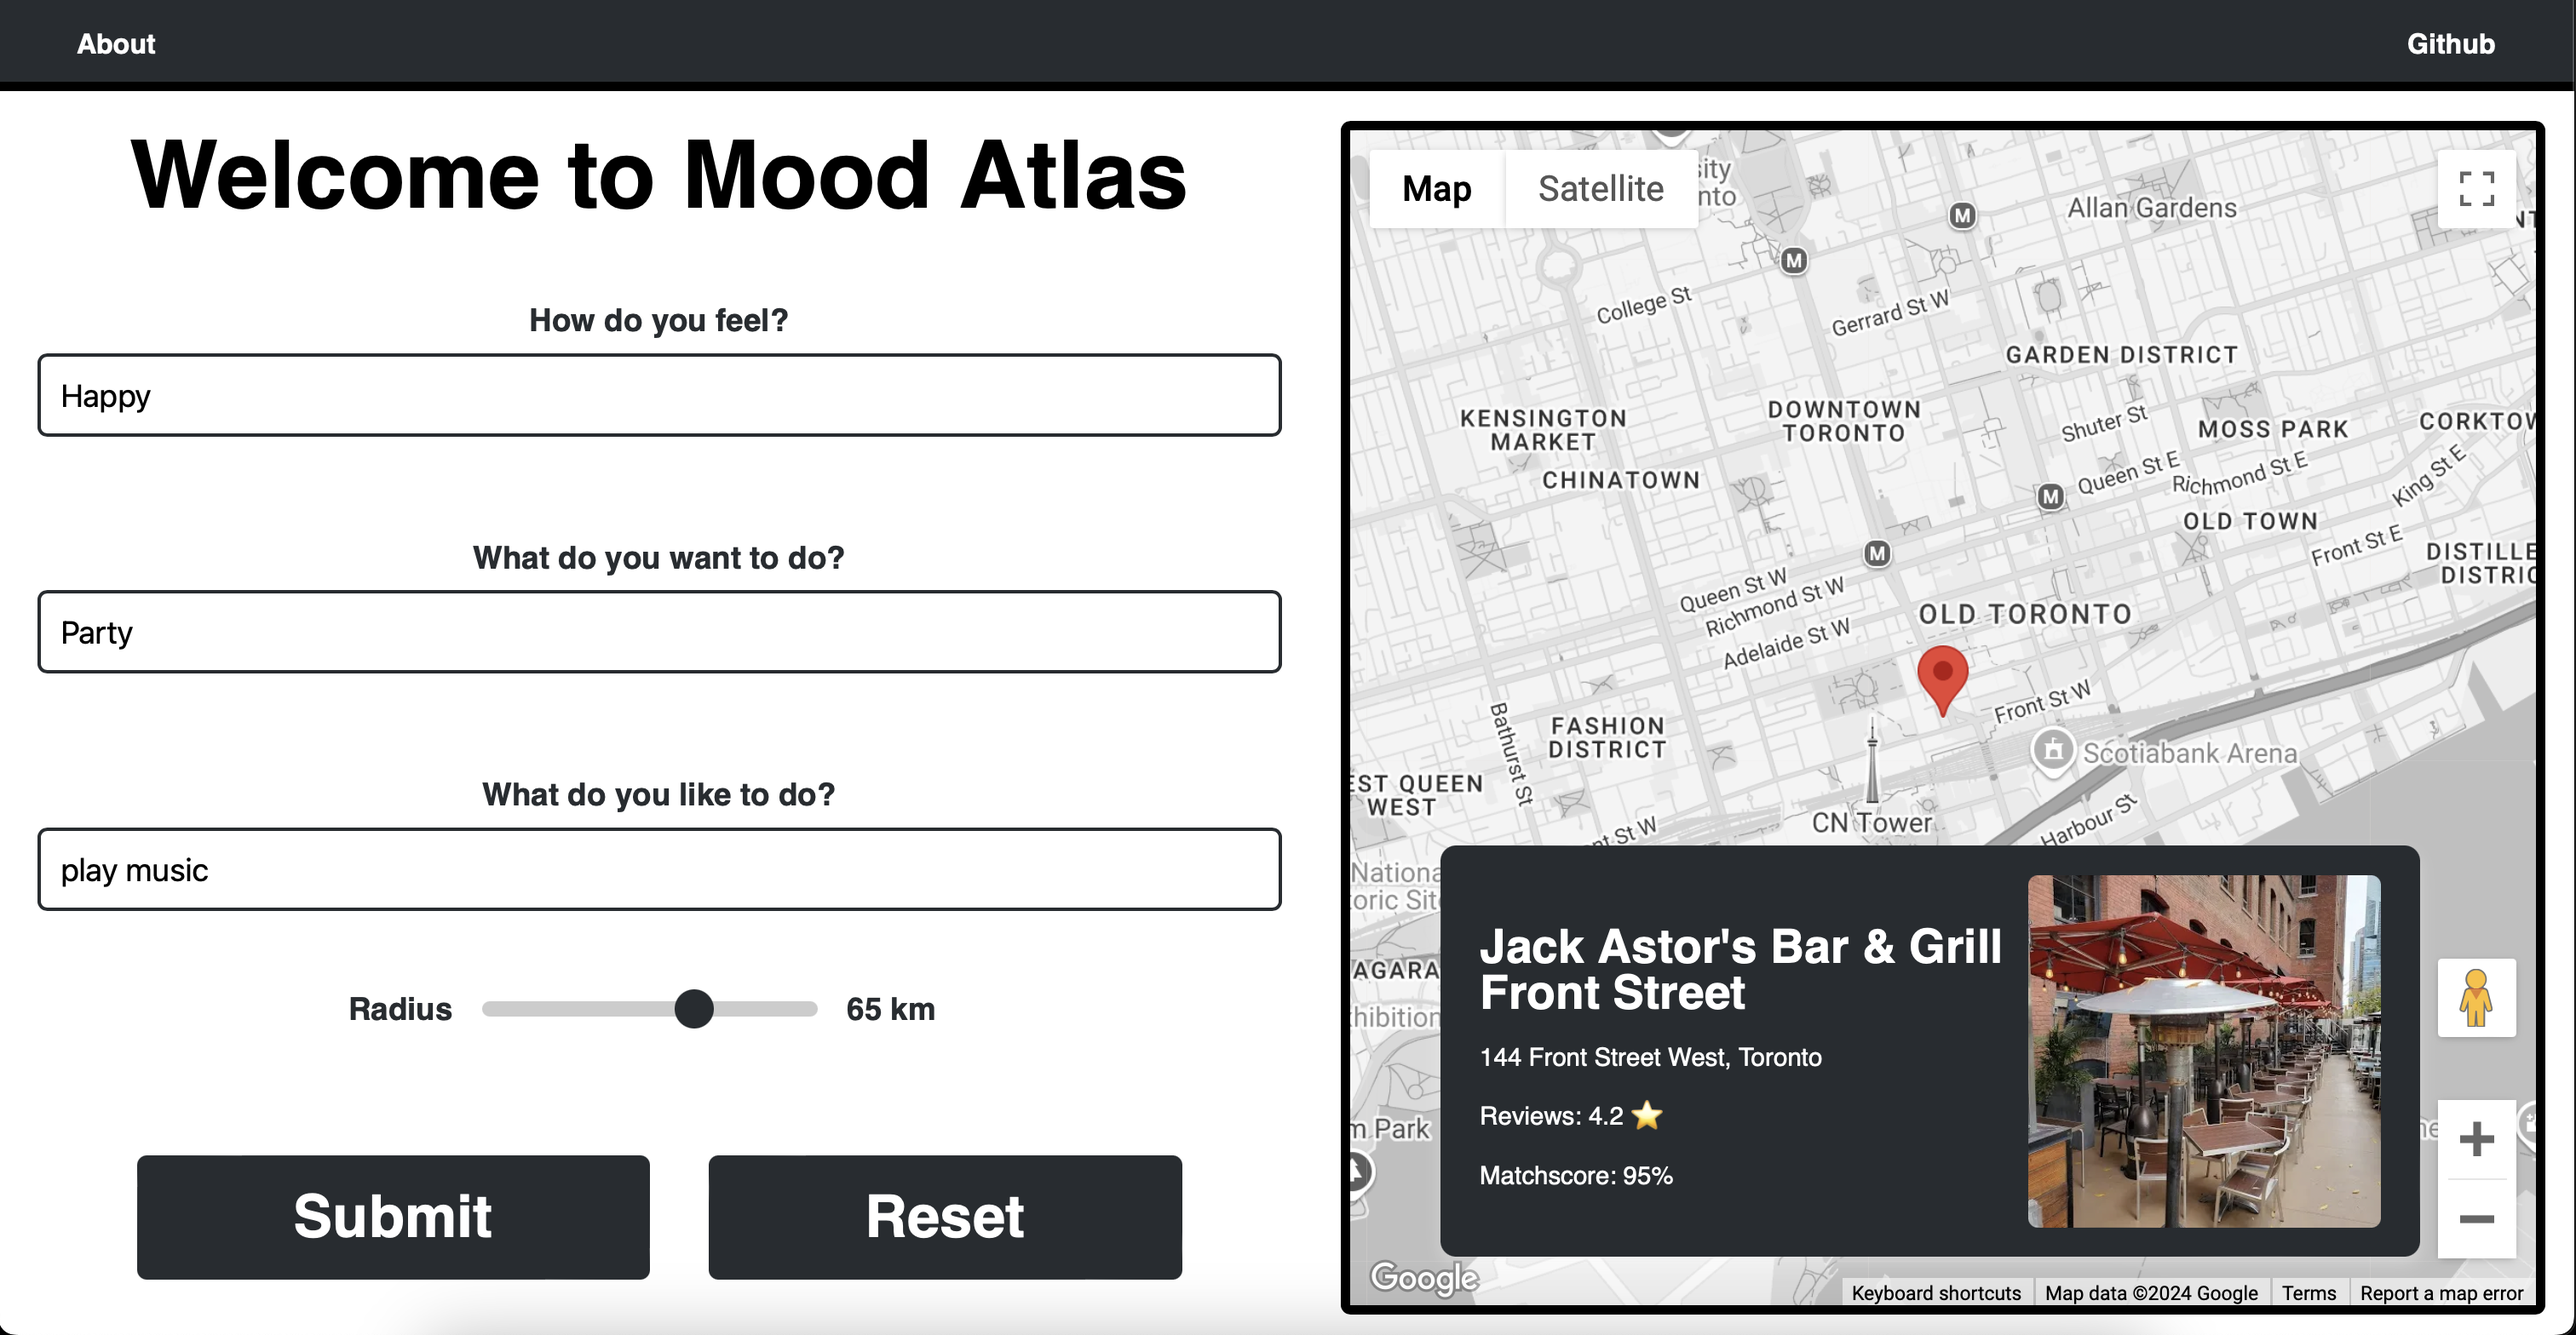
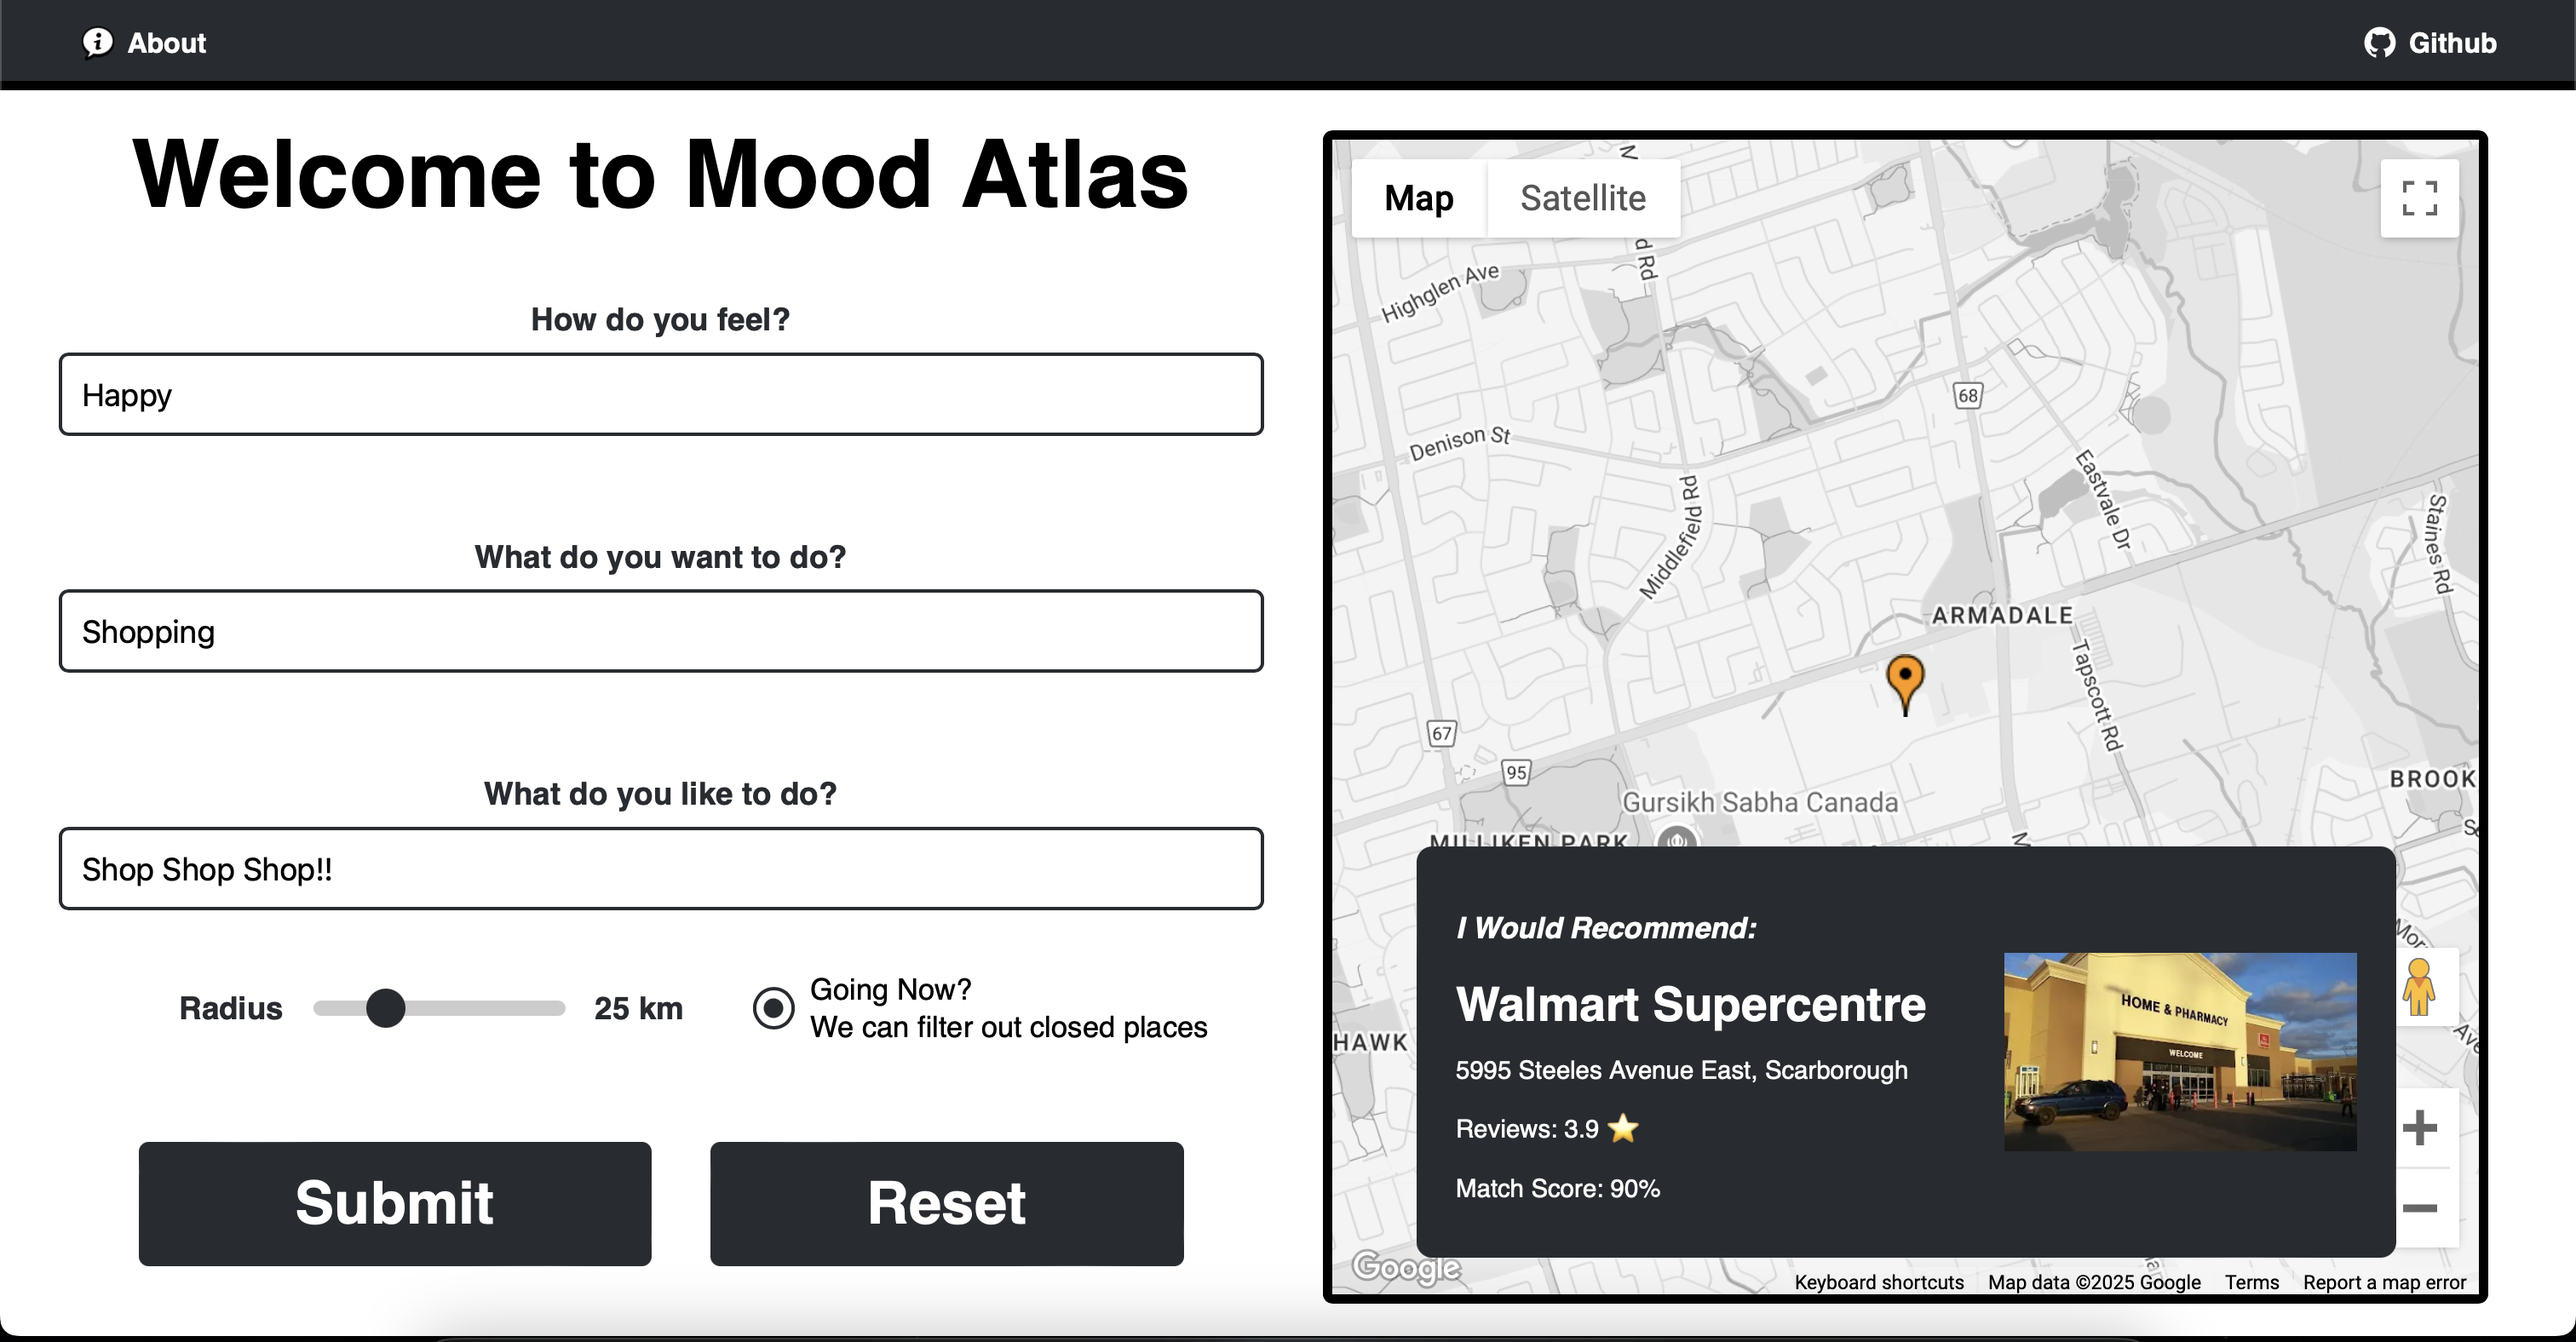
Changes from prod

diff --git a/app/places_fetch.js b/app/places_fetch.js
@@ -45,7 +45,7 @@ THE CONST IS JUST IN PLACE FOR ERROR FIXING THE MATH IS NOT WRONG
   
   // Recursive function to fetch all pages
   async function fetchAllPlaces(url, params, allPlaces = [], pageCount = 0) {
-    const pageLimit = 1;
+    const pageLimit = 10;
     try {
       // Fetch the current page of results
       const response = await axios.get(url, { params, headers: { 'X-Requested-With': 'XMLHttpRequest' } });
@@ -72,8 +72,8 @@ THE CONST IS JUST IN PLACE FOR ERROR FIXING THE MATH IS NOT WRONG
       // Check for the next page token
       if (data.next_page_token) {
         console.log('Next page token found. Waiting before fetching the next page...');
-        // Wait 2 seconds before using the next_page_token (Google API requirement)
-        await new Promise((resolve) => setTimeout(resolve, 2000));
+        // Wait 0.1 seconds before using the next_page_token
+        await new Promise((resolve) => setTimeout(resolve, 100));
 
         // Fetch the next page recursively
         params.pagetoken = data.next_page_token;

diff --git a/app/page.js b/app/page.js
@@ -35,7 +35,7 @@ const WelcomePage = () => {
   // State for displaying processed data, currently a placeholder
   const [processedData, setProcessedData] = useState({
     title: "Start by Filling the inputs and then click submit",
-    address: "",
+    address: "Please wait a while Submitting, processing can take upto 10 seconds",
     picture: "",
     reviews: "",
     matchscore: null,
@@ -97,9 +97,10 @@ const WelcomePage = () => {
     setHobby("");
     setRadius(25);
     setUserCoordinates(userCoordinates);
+    setGonow(false);
     setProcessedData({
       title: "Start by Filling the inputs and then click submit",
-      address: "",
+      address: "Please wait a while Submitting, processing can take upto 10 seconds",
       picture: "",
       reviews: "",
       matchscore: null,

diff --git a/app/location_card.js b/app/location_card.js
@@ -11,11 +11,16 @@ export function LocationCard({ title, description, picture, reviews, matchscore 
   if (matchscore){
     formattedscore = 'Match Score: ' + matchscore;
   }
+  let message = "";
+  if (title !== "Start by Filling the inputs and then click submit") {
+    message = "I Would Recommend:";
+  }
   return (
     <div>
       <div className="map-overlay-box">
         <div className="map-content">
           <div className="map-text">
+            <h4 className='map-title-starting'>{message}</h4>
             <h2 className="map-title">{title}</h2>
             <p className="map-description">{description}</p>
             <p className="map-description">{formattedreviews}</p>

diff --git a/pages/api/fetchUserCoordinates.js b/pages/api/fetchUserCoordinates.js
@@ -1,8 +1,9 @@
 import axios from 'axios';
 
 export default async function handler(req, res) {
-  const url = "https://ipapi.co/json/";
-
+  //const url = "https://ipapi.co/json/";
+  const url = "http://api.ipapi.com/api/76.66.141.159?access_key=38737091724f957570b74a376584ad21"; // backup
+  
   try {
     console.log("Requesting:", url);
 

diff --git a/README.md b/README.md
@@ -382,3 +382,9 @@ Top left: node terminal for next.js, Top middle: python flask terminal for backe
 
 - Postman for API testing 
 <img src="./assets/post.png" alt="Home" width="600" height="auto" />
+
+- Open AI usage dashboard:
+<img src="./assets/openai.png" alt="Home" width="600" height="auto" />
+
+- Googles GCP usage dashboard:
+<img src="./assets/gcp.png" alt="Home" width="600" height="auto" />
